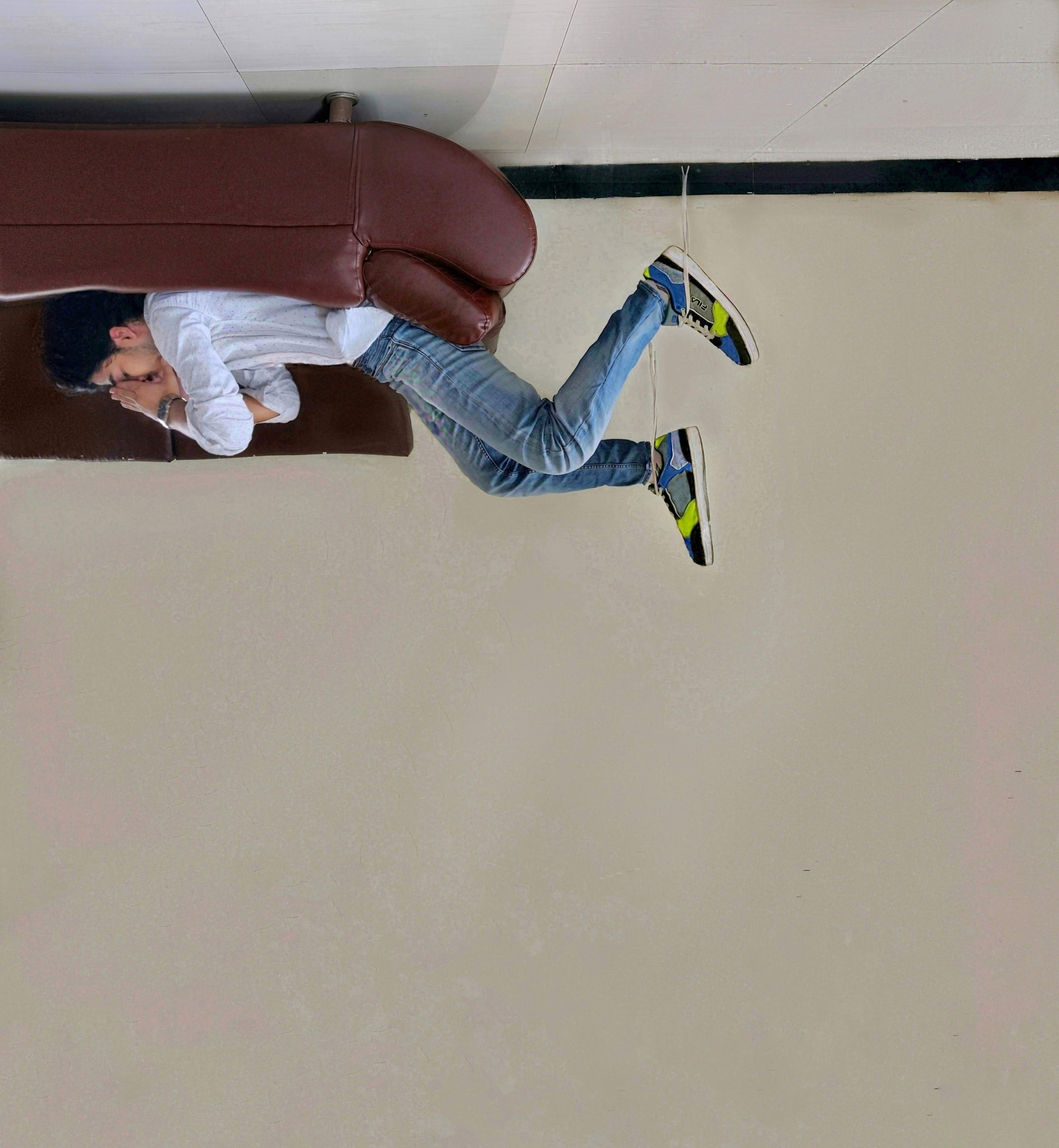
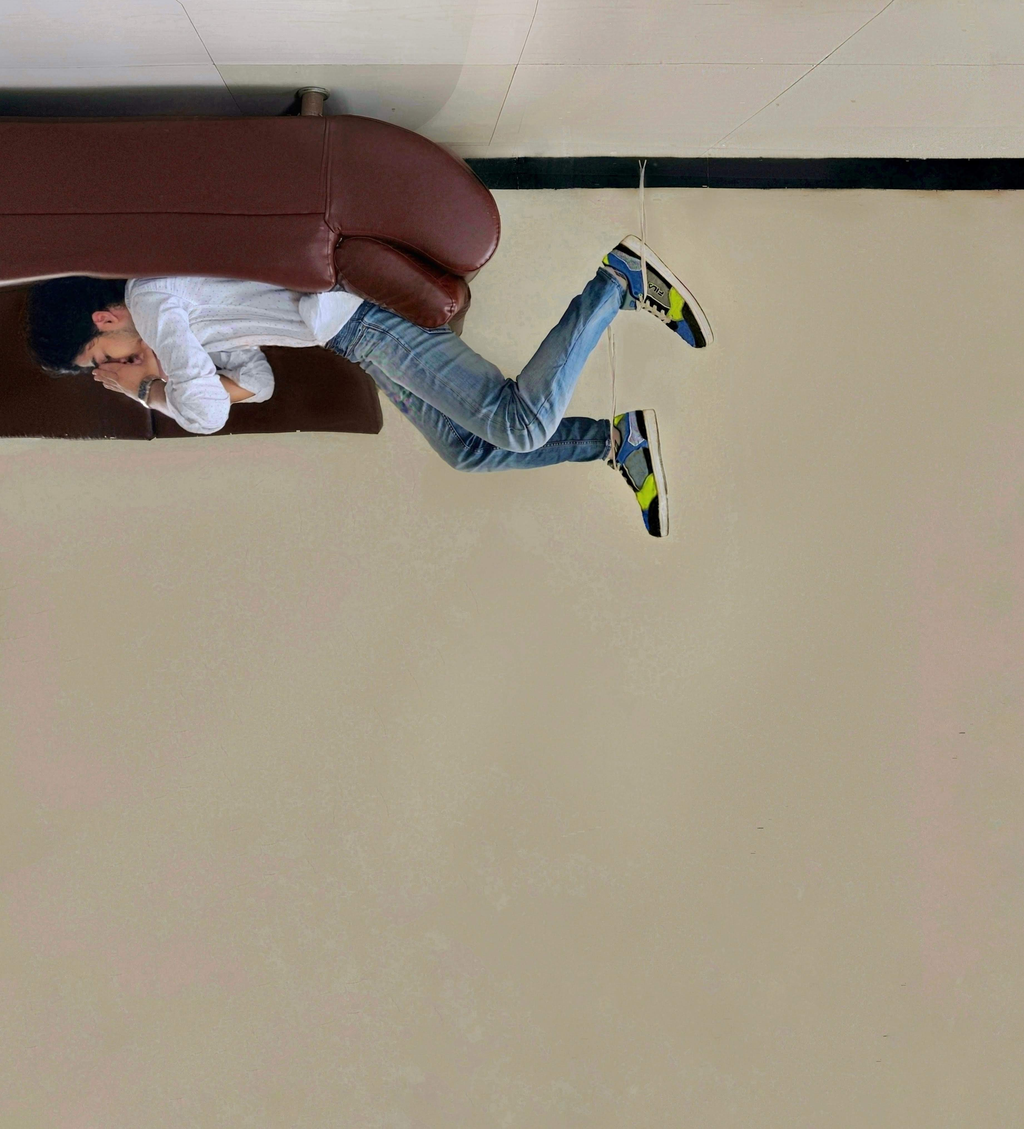
c

diff --git a/index.html b/index.html
@@ -136,7 +136,7 @@
                
                 
                 <div class="block-3 d-md-flex ftco-animate" data-scrollax-parent="true">
-                  <a href="#" class="image d-flex justify-content-center align-items-center" style="background-image: url('images/COUCH.jpg'); " data-scrollax=" properties: { translateY: '-30%'}">
+                  <a href="#" class="image d-flex justify-content-center align-items-center" style="background-image: url('images/Couch.jpg'); " data-scrollax=" properties: { translateY: '-30%'}">
                     <div class="icon d-flex text-center justify-content-center align-items-center">
                       <span class="icon-search"></span>
                     </div>
